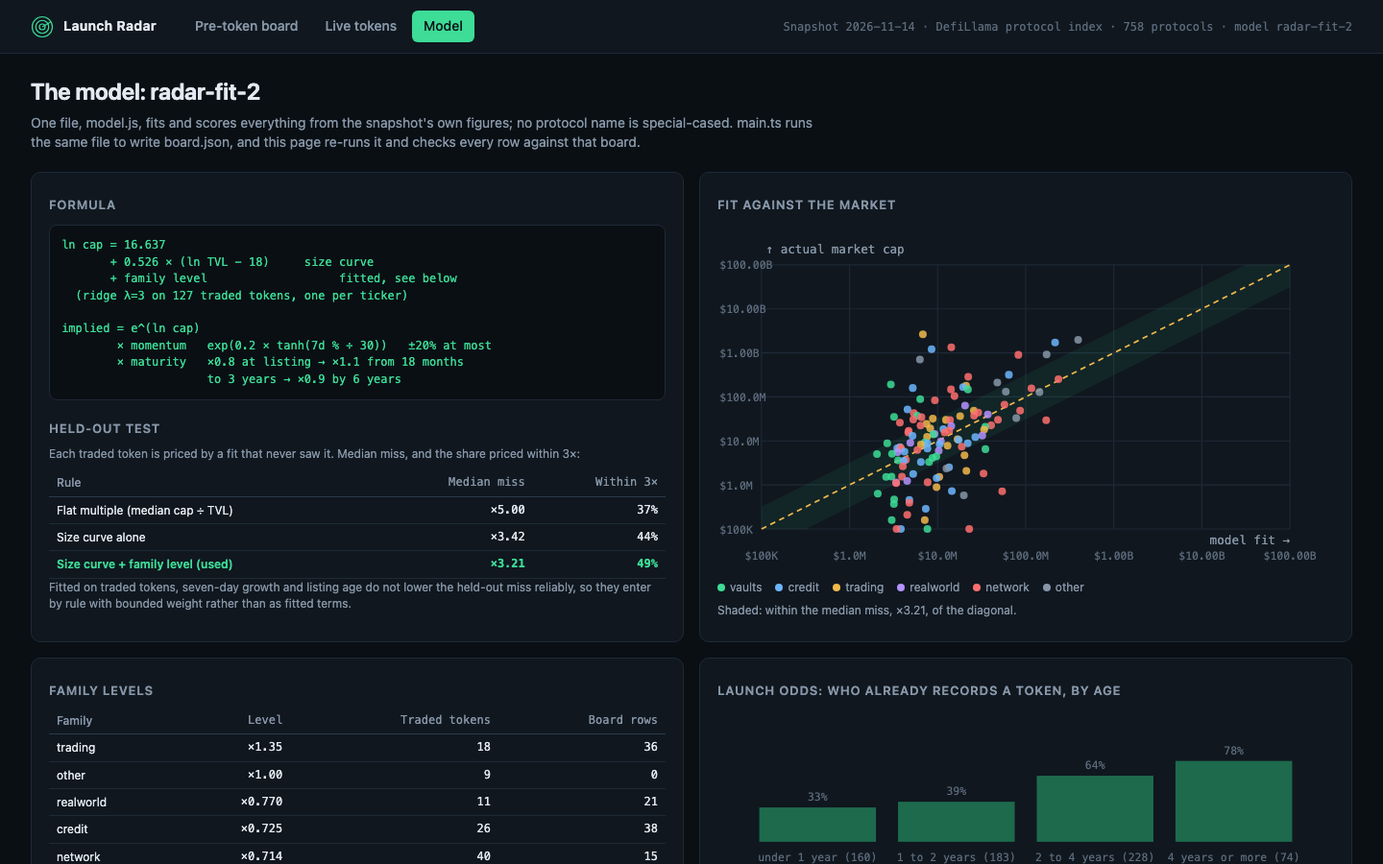
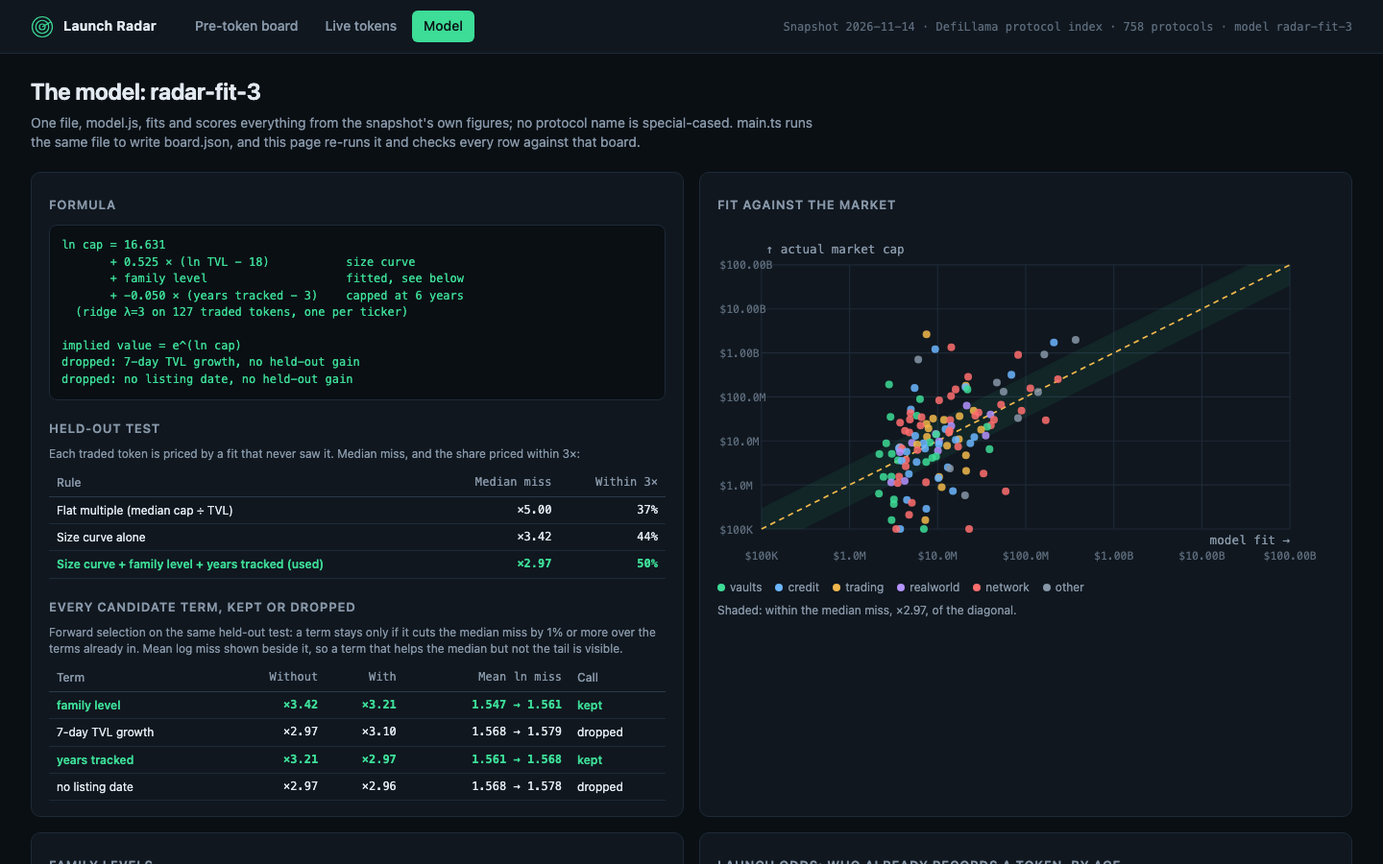
v3: every value term kept or dropped on held-out error

diff --git a/dashboard/model.js b/dashboard/model.js
@@ -26,15 +26,10 @@
   var CONST = {
     ridge_lambda: 3,        // ridge penalty on the fitted terms (not the intercept), chosen on held-out error
     size_center: 18,        // ln TVL is centred here (about $66M) so the intercept reads as a mid-size cap
-    growth_floor: -50,
+    growth_floor: -50,      // the growth term reads tanh(clamped 7d % / 30)
     growth_cap: 100,
-    growth_weight: 0.2,     // momentum = exp(weight * tanh(growth / 30)): at most about ±20%
-    ramp_days: 540,         // maturity climbs to its peak over the first 18 months
-    peak_until: 1095,       // and holds it to 3 years
-    fade_until: 2190,       // then fades to its floor by 6 years with no token
-    maturity_start: 0.8,
-    maturity_peak: 1.1,
-    maturity_old: 0.9,
+    age_center_years: 3,    // the age term reads years tracked (capped at 6) minus 3
+    keep_gain: 0.01,        // a candidate term is kept only if it cuts the held-out median miss by 1% or more
     odds_k: 5,              // pseudo-protocols pulling a thin category or age band toward the whole field
     airdrop_share: 0.075,   // share of a launch's value a points campaign typically hands out
     capital_usd: 500,       // the stake every farm plan is costed at
@@ -86,7 +81,7 @@
 
   // One row per traded token: protocols that carry the same ticker (Aave V2, V3, V4 and Horizon all
   // record AAVE) share one market cap, so the token's multiple is its cap over all of their TVL.
-  function liveTokens(protocols) {
+  function liveTokens(protocols, asOf) {
     var by = {};
     protocols.forEach(function (p) {
       var key = (p.symbol || p.gecko_id || '').toUpperCase();
@@ -100,7 +95,7 @@
       if (!lead) return;
       var tvl = group.reduce(function (s, p) { return s + p.tvl_usd; }, 0);
       if (tvl <= 0) return;
-      out.push({ slug: lead.slug, name: lead.name, symbol: lead.symbol || key, category: lead.category, chains: lead.chains, change_7d: lead.change_7d, listed_at: lead.listed_at,
+      out.push({ slug: lead.slug, name: lead.name, symbol: lead.symbol || key, category: lead.category, chains: lead.chains, change_7d: lead.change_7d, listed_at: lead.listed_at, age_days: asOf ? ageDays(asOf, lead.listed_at) : null,
         mcap_usd: lead.mcap_usd, tvl_usd: tvl, products: group.length, multiple: lead.mcap_usd / tvl });
     });
     return out.sort(function (a, b) { return b.mcap_usd - a.mcap_usd; });
@@ -108,13 +103,19 @@
 
   // ---------------------------------------------------------------- the value fit
 
-  // The fitted core: ln(market cap) = a + b ln(TVL) + a family level, by ridge least squares over the
-  // snapshot's traded tokens. b < 1 is the size curve: a small protocol's cap is a larger multiple of
-  // its TVL than a large one's.
-  function features(tvl, category) {
-    var x = [1, Math.log(tvl) - CONST.size_center];
-    var f = familyOf(category);
-    FAMS.forEach(function (name) { x.push(f === name ? 1 : 0); });
+  // The fitted core: ln(market cap) = a + b ln(TVL) + whichever candidate terms earn their place, by
+  // ridge least squares over the snapshot's traded tokens. b < 1 is the size curve: a small protocol's
+  // cap is a larger multiple of its TVL than a large one's.
+  var TERMS = {
+    family: { label: 'family level', cols: FAMS.slice(), x: function (t) { var f = familyOf(t.category); return FAMS.map(function (n) { return f === n ? 1 : 0; }); } },
+    growth: { label: '7-day TVL growth', cols: ['growth'], x: function (t) { return [Math.tanh(clamp(t.change_7d === null ? 0 : t.change_7d, CONST.growth_floor, CONST.growth_cap) / 30)]; } },
+    age: { label: 'years tracked', cols: ['age'], x: function (t) { return [t.age_days === null ? 0 : Math.min(6, t.age_days / 365) - CONST.age_center_years]; } },
+    undated: { label: 'no listing date', cols: ['undated'], x: function (t) { return [t.age_days === null ? 1 : 0]; } }
+  };
+  var CANDIDATES = ['family', 'growth', 'age', 'undated'];
+  function features(t, terms) {
+    var x = [1, Math.log(t.tvl_usd) - CONST.size_center];
+    terms.forEach(function (name) { x.push.apply(x, TERMS[name].x(t)); });
     return x;
   }
   function dot(w, x) { var s = 0; for (var i = 0; i < x.length; i++) s += w[i] * x[i]; return s; }
@@ -149,28 +150,65 @@
       var rest = live.filter(function (_, j) { return j !== i; });
       return Math.abs(predictWithout(rest, t) - Math.log(t.mcap_usd));
     });
-    return { factor: Math.exp(median(err)), within3: err.filter(function (e) { return e < Math.log(3); }).length / err.length, errors: err };
+    var mean = err.reduce(function (a, b) { return a + b; }, 0) / err.length;
+    return { factor: Math.exp(median(err)), mean: mean, within3: err.filter(function (e) { return e < Math.log(3); }).length / err.length, errors: err };
   }
 
+  function fitOn(set, terms) {
+    return ridge(set.map(function (t) { return features(t, terms); }), set.map(function (t) { return Math.log(t.mcap_usd); }), CONST.ridge_lambda);
+  }
+  function heldOutTerms(live, terms) {
+    return heldOut(live, function (rest, t) { return dot(fitOn(rest, terms), features(t, terms)); });
+  }
+
+  // Forward selection on held-out error: start from the size curve, try each candidate term, keep the
+  // one that cuts the leave-one-out median miss most (by keep_gain or more), and repeat until none does.
+  // Every trial is recorded, so the page shows what each term was worth, kept or dropped.
   function fitValue(live) {
-    var lam = CONST.ridge_lambda;
-    function fitOn(set) { return ridge(set.map(function (t) { return features(t.tvl_usd, t.category); }), set.map(function (t) { return Math.log(t.mcap_usd); }), lam); }
-    var w = fitOn(live);
-    var model = heldOut(live, function (rest, t) { return dot(fitOn(rest), features(t.tvl_usd, t.category)); });
-    // The two simpler rules it has to beat on the same held-out tokens.
-    var flat = heldOut(live, function (rest, t) { return Math.log(t.tvl_usd) + median(rest.map(function (u) { return Math.log(u.multiple); })); });
-    var sizeOnly = heldOut(live, function (rest, t) {
-      var ws = ridge(rest.map(function (u) { return [1, Math.log(u.tvl_usd) - CONST.size_center]; }), rest.map(function (u) { return Math.log(u.mcap_usd); }), lam);
-      return ws[0] + ws[1] * (Math.log(t.tvl_usd) - CONST.size_center);
+    var terms = [], best = heldOutTerms(live, terms), trials = [], step = 0;
+    for (;;) {
+      var pick = null, pickRes = null;
+      step++;
+      CANDIDATES.forEach(function (c) {
+        if (terms.indexOf(c) >= 0) return;
+        var r = heldOutTerms(live, terms.concat([c]));
+        trials.push({ step: step, term: c, label: TERMS[c].label, base: best.factor, with: r.factor, mean_base: best.mean, mean_with: r.mean });
+        if (r.factor < best.factor * (1 - CONST.keep_gain) && (!pickRes || r.factor < pickRes.factor)) { pick = c; pickRes = r; }
+      });
+      if (!pick) break;
+      terms.push(pick); best = pickRes;
+    }
+    var verdicts = CANDIDATES.map(function (c) {
+      var last = trials.filter(function (t) { return t.term === c; }).pop();
+      return { term: c, label: TERMS[c].label, kept: terms.indexOf(c) >= 0, without: last.base, with: last.with, mean_without: last.mean_base, mean_with: last.mean_with };
     });
-    var points = live.map(function (t, i) { return { name: t.name, family: familyOf(t.category), actual: t.mcap_usd, fitted: Math.exp(dot(w, features(t.tvl_usd, t.category))), held_out_error: model.errors[i] }; });
-    var levels = {};
-    FAMS.forEach(function (f, i) { levels[f] = w[2 + i]; });
-    levels.other = 0;
+    var w = fitOn(live, terms);
+    var flat = heldOut(live, function (rest, t) { return Math.log(t.tvl_usd) + median(rest.map(function (u) { return Math.log(u.multiple); })); });
+    var sizeOnly = heldOutTerms(live, []);
+    var points = live.map(function (t, i) { return { name: t.name, family: familyOf(t.category), actual: t.mcap_usd, fitted: Math.exp(dot(w, features(t, terms))), held_out_error: best.errors[i] }; });
+    // Named coefficients: family levels (other = 0), and the kept scalar terms.
+    var coef = {}, at = 2;
+    terms.forEach(function (name) { TERMS[name].cols.forEach(function (col) { coef[col] = w[at++]; }); });
+    var levels = { other: 0 };
+    FAMS.forEach(function (f) { levels[f] = coef[f] || 0; });
     return {
-      weights: w, intercept: w[0], size_elasticity: w[1], family_levels: levels, tokens: live.length,
-      held_out: { model: model.factor, model_within3: model.within3, flat: flat.factor, flat_within3: flat.within3, size_only: sizeOnly.factor, size_only_within3: sizeOnly.within3 },
-      points: points
+      weights: w, terms: terms, coef: coef, intercept: w[0], size_elasticity: w[1], family_levels: levels, tokens: live.length,
+      selection: verdicts,
+      held_out: { model: best.factor, model_within3: best.within3, model_mean: best.mean, flat: flat.factor, flat_within3: flat.within3, flat_mean: flat.mean, size_only: sizeOnly.factor, size_only_within3: sizeOnly.within3, size_only_mean: sizeOnly.mean },
+      points: points,
+      predict: function (t) { return Math.exp(dot(w, features(t, terms))); },
+      // The multiplier each kept term contributes for this protocol (1 when dropped).
+      parts: function (t) {
+        var out = {};
+        CANDIDATES.forEach(function (name) {
+          var i = terms.indexOf(name);
+          if (i < 0) { out[name] = 1; return; }
+          var x = TERMS[name].x(t), s = 0;
+          TERMS[name].cols.forEach(function (col, j) { s += coef[col] * x[j]; });
+          out[name] = Math.exp(s);
+        });
+        return out;
+      }
     };
   }
 
@@ -205,20 +243,6 @@
         return { odds: 1 / (1 + Math.exp(-z)), category: c, age: a, band: ageBand(age) };
       }
     };
-  }
-
-  function momentum(change) {
-    var g = clamp(change === null ? 0 : change, CONST.growth_floor, CONST.growth_cap);
-    return { growth: g, mult: Math.exp(CONST.growth_weight * Math.tanh(g / 30)) };
-  }
-
-  function maturity(age) {
-    var C = CONST;
-    if (age === null) return 1;
-    if (age <= C.ramp_days) return C.maturity_start + (C.maturity_peak - C.maturity_start) * age / C.ramp_days;
-    if (age <= C.peak_until) return C.maturity_peak;
-    if (age <= C.fade_until) return C.maturity_peak - (C.maturity_peak - C.maturity_old) * (age - C.peak_until) / (C.fade_until - C.peak_until);
-    return C.maturity_old;
   }
 
   // ---------------------------------------------------------------- farm plans
@@ -303,7 +327,7 @@
 
   function build(snapshot) {
     var protocols = snapshot.protocols;
-    var live = liveTokens(protocols);
+    var live = liveTokens(protocols, snapshot.as_of);
     var fit = fitValue(live);
     var odds = launchOdds(protocols, snapshot.as_of);
     var sib = siblings(protocols);
@@ -318,10 +342,10 @@
       var why = watch[p.slug] ? null : setAsideReason(p) || (sibling ? 'sibling of a token that trades' : null);
       if (why) { aside.push({ slug: p.slug, name: p.name, reason: why }); return; }
       var age = ageDays(snapshot.as_of, p.listed_at);
-      var core = Math.exp(dot(fit.weights, features(p.tvl_usd, p.category)));
-      var mo = momentum(p.change_7d);
-      var ma = maturity(age);
-      var implied = Math.max(1, Math.round(core * mo.mult * ma));
+      var subject = { tvl_usd: p.tvl_usd, category: p.category, change_7d: p.change_7d, age_days: age };
+      var core = fit.predict(subject);
+      var parts = fit.parts(subject);
+      var implied = Math.max(1, Math.round(core));
       var od = odds.of(p.category, age);
       var plan = farmPlan(p);
       rows.push({
@@ -332,7 +356,7 @@
         sibling: sibling,
         implied_value_usd: implied,
         range_usd: [Math.round(implied / fit.held_out.model), Math.round(implied * fit.held_out.model)],
-        model: { fitted_core: core, implied_multiple: core / p.tvl_usd, family_level: fit.family_levels[familyOf(p.category)], growth_pct: mo.growth, momentum: mo.mult, maturity: ma },
+        model: { fitted_core: core, implied_multiple: core / p.tvl_usd, family_level: fit.family_levels[familyOf(p.category)], size_curve: core / parts.family / parts.growth / parts.age / parts.undated, parts: parts },
         launch_odds: od.odds,
         odds_parts: od,
         airdrop_per_1k: implied * CONST.airdrop_share * 1000 / p.tvl_usd,
@@ -349,6 +373,6 @@
     return { rows: rows, live: live, aside: aside, fit: fit, odds: odds, constants: CONST, protocols: protocols.length };
   }
 
-  var api = { build: build, liveTokens: liveTokens, fitValue: fitValue, farmPlan: farmPlan, verdict: verdict, stepText: stepText, momentum: momentum, maturity: maturity, tokenStatus: tokenStatus, familyOf: familyOf, CONST: CONST, VERSION: 'radar-fit-2' };
+  var api = { build: build, liveTokens: liveTokens, fitValue: fitValue, farmPlan: farmPlan, verdict: verdict, stepText: stepText, tokenStatus: tokenStatus, familyOf: familyOf, CONST: CONST, VERSION: 'radar-fit-3' };
   if (typeof module !== 'undefined' && module.exports) module.exports = api; else root.RadarModel = api;
 })(this);

diff --git a/dashboard/app.js b/dashboard/app.js
@@ -48,7 +48,8 @@
       [accounted === snap.protocols.length, 'All ' + snap.protocols.length + ' protocols accounted: ' + rows.length + ' ranked, ' + liveProducts + ' trade, ' + R.aside.length + ' set aside'],
       [ordered, 'Ranks 1–' + rows.length + ', value never rises'],
       [board.length > 0 && same === board.length && board.length === rows.length, 'Page recomputed ' + same + '/' + board.length + ' board.json rows exactly'],
-      [F.held_out.model < F.held_out.flat, 'Held-out miss ' + mult(F.held_out.model) + ' beats a flat multiple\'s ' + mult(F.held_out.flat)]
+      [F.held_out.model < F.held_out.flat && F.held_out.model < F.held_out.size_only, 'Held-out miss ' + mult(F.held_out.model) + ' beats a flat multiple (' + mult(F.held_out.flat) + ') and the size curve alone (' + mult(F.held_out.size_only) + ')'],
+      [F.selection.every(function (v) { return v.kept === (F.terms.indexOf(v.term) >= 0) && (!v.kept || v.with < v.without); }), F.selection.length + ' snapshot terms tested held-out: ' + F.terms.length + ' kept, ' + (F.selection.length - F.terms.length) + ' dropped']
     ];
     return '<ul class="strip">' + checks.map(function (c) { return '<li class="' + (c[0] ? 'ok' : 'bad') + '">' + (c[0] ? '✓ ' : '✗ ') + esc(c[1]) + '</li>'; }).join('') + '</ul>';
   }
@@ -119,7 +120,7 @@
     var total = list.reduce(function (s, r) { return s + r.implied_value_usd; }, 0);
     var active = Object.keys(DEFAULT).some(function (k) { return k !== 'sort' && k !== 'dir' && st[k] !== DEFAULT[k]; });
     var html = '<section class="hero"><div><h1>' + rows.length + ' protocols with no token on record, ranked by what a launch would be worth</h1>' +
-      '<p class="lede">Implied value is the market cap the snapshot\'s ' + F.tokens + ' traded tokens put on a protocol of this TVL and family (a fitted size curve: cap grows as TVL<sup>' + F.size_elasticity.toFixed(2) + '</sup>), nudged by seven-day momentum and time run with no token. Every watchlist protocol is here, with ' + (rows.length - watch) + ' early ones below the $50M floor held to the same rule. A model\'s estimate, not a price.</p></div>' +
+      '<p class="lede">Implied value is the market cap the snapshot\'s ' + F.tokens + ' traded tokens put on a protocol of this TVL (a fitted size curve: cap grows as TVL<sup>' + F.size_elasticity.toFixed(2) + '</sup>), plus every snapshot term that earned its place on held-out tokens: ' + keptText() + '. Every watchlist protocol is here, with ' + (rows.length - watch) + ' early ones below the $50M floor held to the same rule. A model\'s estimate, not a price.</p></div>' +
       '<dl class="kpis"><div><dt>Watchlist covered</dt><dd>' + watch + ' / ' + snap.watchlist.length + '</dd></div>' +
       '<div><dt>Held-out miss, median</dt><dd>' + mult(F.held_out.model) + '</dd></div>' +
       '<div><dt>Farm · thin · skip</dt><dd>' + tally('farm') + ' · ' + tally('thin') + ' · ' + tally('skip') + '</dd></div>' +
@@ -178,6 +179,17 @@
 
   // ------------------------------------------------------------ detail
 
+  function verdictOf(term) { return F.selection.filter(function (v) { return v.term === term; })[0]; }
+  function termNote(term, what) {
+    var v = verdictOf(term);
+    return what + (v.kept ? '; kept: held-out miss ' + mult(v.without) + ' → ' + mult(v.with) : '; tested and dropped (held-out ' + mult(v.without) + ' → ' + mult(v.with) + '), so ×1');
+  }
+  function keptText() {
+    var k = F.selection.filter(function (v) { return v.kept; }).map(function (v) { return v.label; });
+    var d = F.selection.filter(function (v) { return !v.kept; }).map(function (v) { return v.label; });
+    return (k.length ? k.join(' and ') : 'none') + (d.length ? ' (' + d.join(' and ') + ' tested and dropped)' : '');
+  }
+
   function renderDetail(slug) {
     var r = bySlug[slug];
     if (!r) { app.innerHTML = '<p class="empty">No protocol ' + esc(slug) + ' on the board. <a href="#board">Back to the board</a></p>'; return; }
@@ -186,9 +198,9 @@
     var build = [
       ['TVL', r.tvl_usd, 'Snapshot figure'],
       ['Size curve', size, 'What ' + F.tokens + ' traded tokens put on this TVL: cap grows as TVL<sup>' + F.size_elasticity.toFixed(3) + '</sup>'],
-      ['× ' + esc(r.family) + ' level ' + mult(Math.exp(m.family_level)), m.fitted_core, 'Fitted family offset; the core value is ' + mult(m.implied_multiple) + ' TVL'],
-      ['× momentum ' + mult(m.momentum), m.fitted_core * m.momentum, 'Seven-day TVL ' + (r.change_7d === null ? 'not reported: neutral' : (r.change_7d >= 0 ? '+' : '') + r.change_7d.toFixed(2) + '%')],
-      ['× maturity ' + mult(m.maturity), r.implied_value_usd, r.age_days === null ? 'No listing date: neutral' : age(r.age_days) + ' tracked with no token → implied value']
+      ['× ' + esc(r.family) + ' level ' + mult(m.parts.family), size * m.parts.family, termNote('family', 'Fitted family offset')],
+      ['× 7d growth ' + mult(m.parts.growth), size * m.parts.family * m.parts.growth, termNote('growth', 'Seven-day TVL ' + (r.change_7d === null ? 'not reported' : (r.change_7d >= 0 ? '+' : '') + r.change_7d.toFixed(2) + '%'))],
+      ['× years tracked ' + mult(m.parts.age), r.implied_value_usd, termNote('age', r.age_days === null ? 'No listing date: neutral' : age(r.age_days) + ' tracked with no token') + ' → implied value, ' + mult(m.implied_multiple) + ' TVL']
     ];
     var top = Math.max.apply(null, build.map(function (b) { return b[1]; }));
     // Comparables: the traded tokens of the same family nearest this TVL.
@@ -267,18 +279,31 @@
     return s + '</svg>';
   }
 
+  function formula() {
+    var C = M.CONST, c = F.coef, pad = function (t) { return (t + '                                ').slice(0, 34); };
+    var lines = ['ln cap = ' + F.intercept.toFixed(3), '       ' + pad('+ ' + F.size_elasticity.toFixed(3) + ' × (ln TVL − ' + C.size_center + ')') + 'size curve'];
+    if (F.terms.indexOf('family') >= 0) lines.push('       ' + pad('+ family level') + 'fitted, see below');
+    if (F.terms.indexOf('growth') >= 0) lines.push('       ' + pad('+ ' + c.growth.toFixed(3) + ' × tanh(7d % ÷ 30)') + '7-day growth');
+    if (F.terms.indexOf('age') >= 0) lines.push('       ' + pad('+ ' + c.age.toFixed(3) + ' × (years tracked − ' + C.age_center_years + ')') + 'capped at 6 years');
+    if (F.terms.indexOf('undated') >= 0) lines.push('       ' + pad('+ ' + c.undated.toFixed(3) + ' if no listing date') + '');
+    lines.push('  (ridge λ=' + C.ridge_lambda + ' on ' + F.tokens + ' traded tokens, one per ticker)', '', 'implied value = e^(ln cap)');
+    F.selection.forEach(function (v) { if (!v.kept) lines.push('dropped: ' + v.label + ', no held-out gain'); });
+    return lines.join('\n');
+  }
+
   function renderModel() {
     var C = M.CONST, h = F.held_out;
     var aside = {};
     R.aside.forEach(function (a) { aside[a.reason] = (aside[a.reason] || 0) + 1; });
     var fams = Object.keys(F.family_levels).sort(function (a, b) { return F.family_levels[b] - F.family_levels[a]; });
     var html = '<section class="hero slim"><div><h1>The model: ' + esc(M.VERSION) + '</h1><p class="lede">One file, model.js, fits and scores everything from the snapshot\'s own figures; no protocol name is special-cased. main.ts runs the same file to write board.json, and this page re-runs it and checks every row against that board.</p></div></section>';
-    html += '<div class="grid2"><section class="card"><h3>Formula</h3><pre>ln cap = ' + F.intercept.toFixed(3) + '\n       + ' + F.size_elasticity.toFixed(3) + ' × (ln TVL − ' + C.size_center + ')     size curve\n       + family level                   fitted, see below\n  (ridge λ=' + C.ridge_lambda + ' on ' + F.tokens + ' traded tokens, one per ticker)\n\nimplied = e^(ln cap)\n        × momentum   exp(' + C.growth_weight + ' × tanh(7d % ÷ 30))   ±20% at most\n        × maturity   ×' + C.maturity_start + ' at listing → ×' + C.maturity_peak + ' from 18 months\n                     to 3 years → ×' + C.maturity_old + ' by 6 years</pre>' +
+    html += '<div class="grid2"><section class="card"><h3>Formula</h3><pre>' + formula() + '</pre>' +
       '<h3>Held-out test</h3><p class="note">Each traded token is priced by a fit that never saw it. Median miss, and the share priced within 3×:</p><table class="mini"><thead><tr><th>Rule</th><th class="num">Median miss</th><th class="num">Within 3×</th></tr></thead><tbody>' +
       '<tr><td>Flat multiple (median cap ÷ TVL)</td><td class="num">' + mult(h.flat) + '</td><td class="num">' + share(h.flat_within3) + '</td></tr>' +
       '<tr><td>Size curve alone</td><td class="num">' + mult(h.size_only) + '</td><td class="num">' + share(h.size_only_within3) + '</td></tr>' +
-      '<tr class="used"><td>Size curve + family level (used)</td><td class="num">' + mult(h.model) + '</td><td class="num">' + share(h.model_within3) + '</td></tr></tbody></table>' +
-      '<p class="note">Fitted on traded tokens, seven-day growth and listing age do not lower the held-out miss reliably, so they enter by rule with bounded weight rather than as fitted terms.</p></section>' +
+      '<tr class="used"><td>Size curve + ' + F.terms.map(function (t) { return verdictOf(t).label; }).join(' + ') + ' (used)</td><td class="num">' + mult(h.model) + '</td><td class="num">' + share(h.model_within3) + '</td></tr></tbody></table>' +
+      '<h3>Every candidate term, kept or dropped</h3><p class="note">Forward selection on the same held-out test: a term stays only if it cuts the median miss by ' + share(C.keep_gain) + ' or more over the terms already in. Mean log miss shown beside it, so a term that helps the median but not the tail is visible.</p><table class="mini"><thead><tr><th>Term</th><th class="num">Without</th><th class="num">With</th><th class="num">Mean ln miss</th><th>Call</th></tr></thead><tbody>' +
+      F.selection.map(function (v) { return '<tr' + (v.kept ? ' class="used"' : '') + '><td>' + esc(v.label) + '</td><td class="num">' + mult(v.without) + '</td><td class="num">' + mult(v.with) + '</td><td class="num">' + v.mean_without.toFixed(3) + ' → ' + v.mean_with.toFixed(3) + '</td><td>' + (v.kept ? 'kept' : 'dropped') + '</td></tr>'; }).join('') + '</tbody></table></section>' +
       '<section class="card"><h3>Fit against the market</h3>' + validationChart() + '<p class="legend">' + ['vaults', 'credit', 'trading', 'realworld', 'network', 'other'].map(function (f) { return '<span><i class="dot-key ' + f + '"></i>' + f + '</span>'; }).join('') + '</p><p class="note">Shaded: within the median miss, ' + mult(h.model) + ', of the diagonal.</p></section>' +
       '<section class="card"><h3>Family levels</h3><table class="mini"><thead><tr><th>Family</th><th class="num">Level</th><th class="num">Traded tokens</th><th class="num">Board rows</th></tr></thead><tbody>' +
       fams.map(function (f) { return '<tr><td>' + esc(f) + '</td><td class="num">' + mult(Math.exp(F.family_levels[f])) + '</td><td class="num">' + R.live.filter(function (l) { return M.familyOf(l.category) === f; }).length + '</td><td class="num">' + rows.filter(function (r) { return r.family === f; }).length + '</td></tr>'; }).join('') + '</tbody></table>' +

diff --git a/main.ts b/main.ts
@@ -68,8 +68,10 @@ const board = rows.map((r: any) => ({
   model: {
     fitted_core_usd: Math.round(r.model.fitted_core),
     family_level: Number(r.model.family_level.toFixed(4)),
-    momentum: Number(r.model.momentum.toFixed(4)),
-    maturity: Number(r.model.maturity.toFixed(4)),
+    size_curve_usd: Math.round(r.model.size_curve),
+    family_x: Number(r.model.parts.family.toFixed(4)),
+    growth_x: Number(r.model.parts.growth.toFixed(4)),
+    age_x: Number(r.model.parts.age.toFixed(4)),
   },
   launch_odds: Number(r.launch_odds.toFixed(4)),
   farm: {
@@ -85,7 +87,7 @@ const board = rows.map((r: any) => ({
 }));
 
 mkdirSync(out, { recursive: true });
-const fit = { tokens: radar.fit.tokens, intercept: radar.fit.intercept, size_elasticity: radar.fit.size_elasticity, family_levels: radar.fit.family_levels, held_out: radar.fit.held_out };
+const fit = { tokens: radar.fit.tokens, terms: radar.fit.terms, coef: radar.fit.coef, intercept: radar.fit.intercept, size_elasticity: radar.fit.size_elasticity, family_levels: radar.fit.family_levels, held_out: radar.fit.held_out, selection: radar.fit.selection };
 writeFileSync(join(out, 'board.json'), `${JSON.stringify({ model: Model.VERSION, as_of: snapshot.as_of, source: snapshot.source, constants: Model.CONST, fit, rows: board })}\n`);
 
 // The page gets the snapshot itself and runs the model on it.

diff --git a/README.md b/README.md
@@ -6,7 +6,7 @@
 
 Launch Radar ranks the DefiLlama protocols that record no token by what a launch would be worth, and gives each one a costed farm plan.
 
-**The value model** (`dashboard/model.js`, run by both the page and `main.ts`) is fitted on the snapshot's own traded tokens, one row per ticker (Aave V2, V3, V4 and Horizon share AAVE, so AAVE's cap is set against all of their TVL). A ridge regression of ln(market cap) on ln(TVL) and a family level (vaults, credit, trading, real world, network) gives the size curve: cap grows as TVL^0.53, so a small protocol is worth a larger multiple of its TVL than a large one. Every traded token is priced by a fit that never saw it: the median miss is 3.2x, against 5.0x for a flat multiple. Seven-day momentum and time run with no token adjust the fitted core by bounded rule, since fitted on traded tokens they do not cut the held-out miss.
+**The value model** (`dashboard/model.js`, run by both the page and `main.ts`) is fitted on the snapshot's own traded tokens, one row per ticker (Aave V2, V3, V4 and Horizon share AAVE, so AAVE's cap is set against all of their TVL). A ridge regression of ln(market cap) on ln(TVL) gives the size curve: cap grows as TVL^0.53, so a small protocol is worth a larger multiple of its TVL than a large one. Every other snapshot term (family level, 7-day TVL growth, years tracked, a missing listing date) is a candidate, kept only if it cuts the leave-one-out median miss by 1% or more: family level (3.42x to 3.21x) and years tracked (3.21x to 2.97x) are kept; 7-day growth (2.97x to 3.10x) and the missing-date flag are dropped, and the Model tab shows every trial. Every traded token is priced by a fit that never saw it: the median miss is 2.97x, against 5.0x for a flat multiple and 3.42x for the size curve alone.
 
 **Launch odds** combine the share of a protocol's category and of its age band that already record a token. **Farm verdicts** set the stake's expected drop (value x 7.5% airdrop x the stake's share of TVL x odds) against every fee its plan costs on the protocol's cheapest chain: farm, thin or skip, with the stake at which fees are covered.
 
